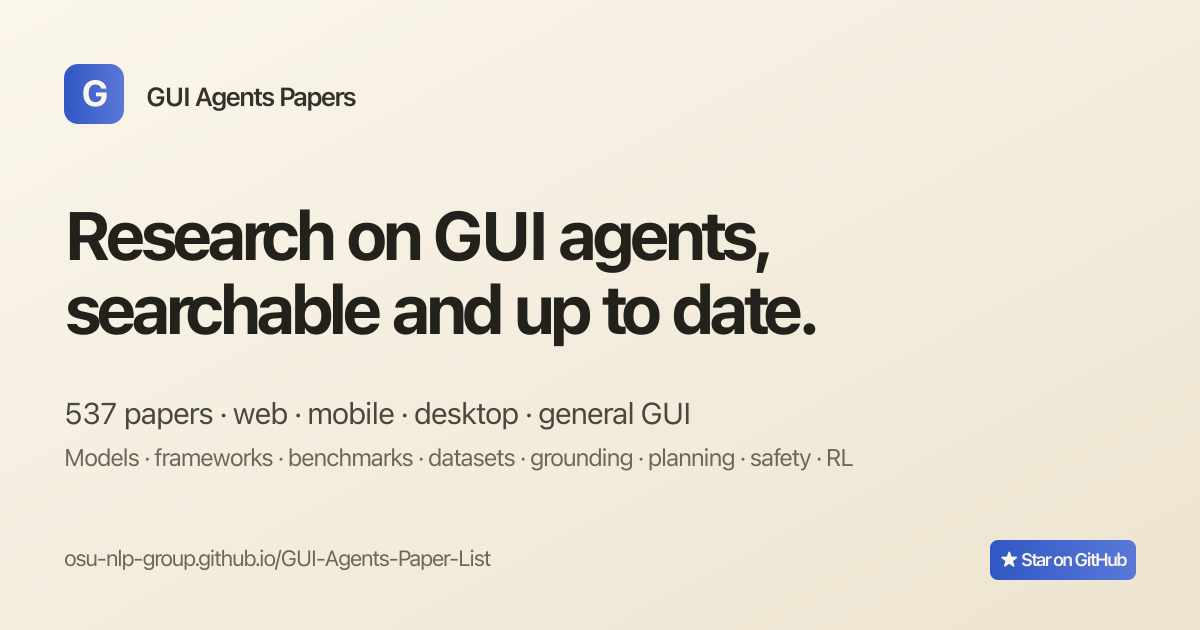
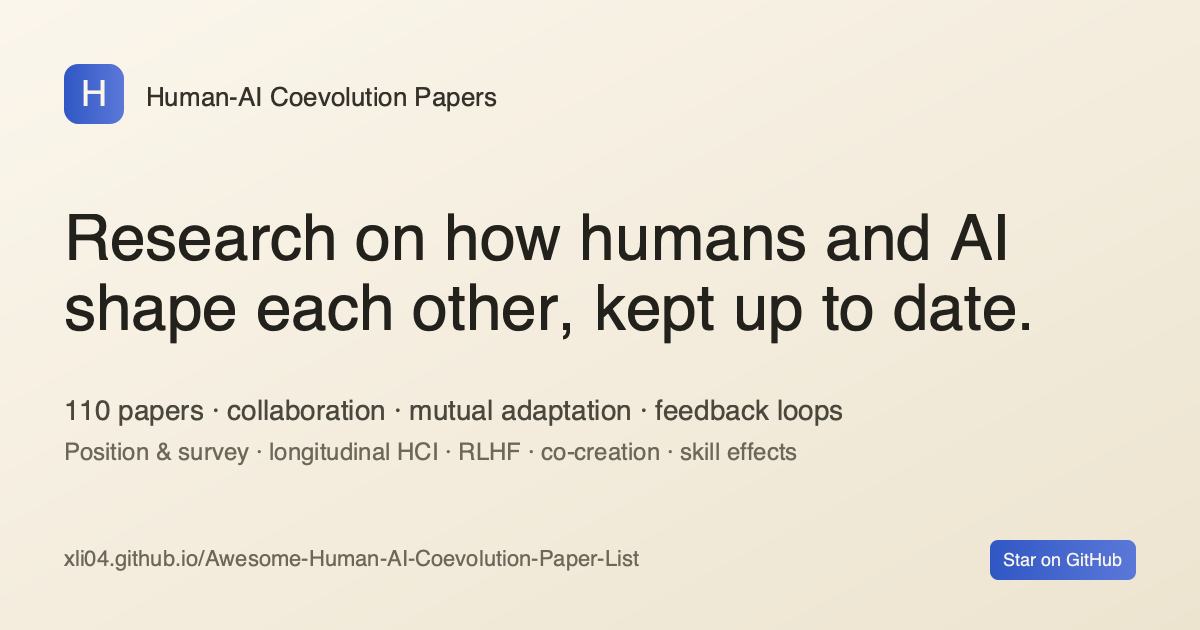
first update

diff --git a/site/src/pages/rss.xml.ts b/site/src/pages/rss.xml.ts
@@ -6,7 +6,7 @@ export async function GET(context: { site: URL | undefined }) {
   const { canonical } = loadAllPapers();
   const recent = canonical.slice(0, 60);
   const base = (import.meta as any).env.BASE_URL.replace(/\/$/, '');
-  const origin = (context.site ?? new URL('https://osu-nlp-group.github.io')).toString().replace(/\/$/, '');
+  const origin = (context.site ?? new URL('https://xli04.github.io')).toString().replace(/\/$/, '');
   const siteWithBase = new URL(base + '/', origin + '/');
   return rss({
     title: SITE_TITLE,